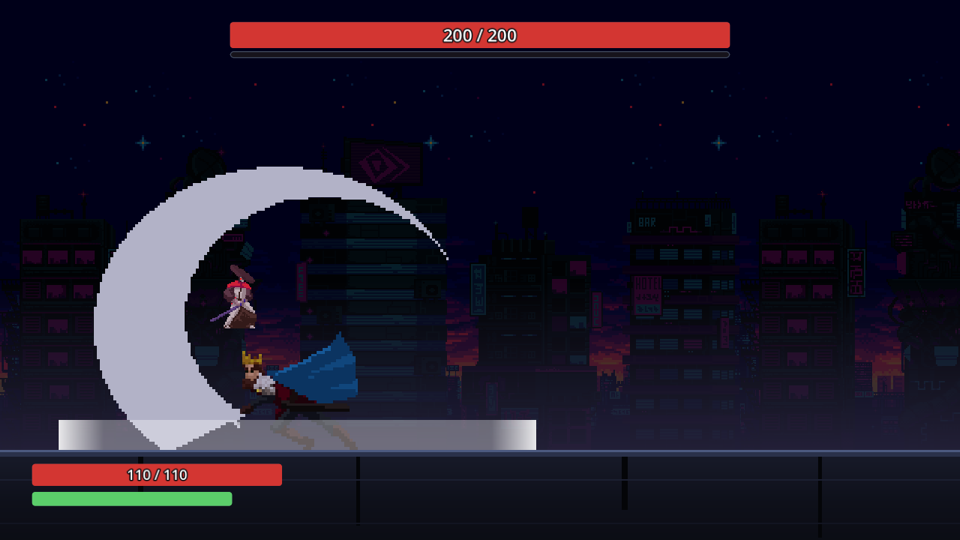
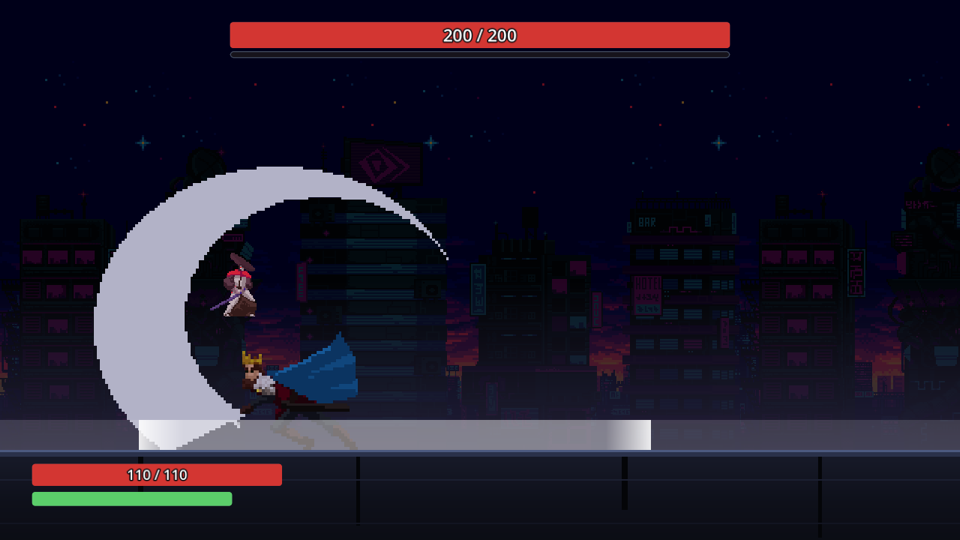
README 와 설계에 밑깔개와 고르게 달리는 앞머리를 적고 착지 사진을 새로 찍는다 (#83)
README: 착지하는 순간 맞는 자리 전체가 옅게 하얘지고 그 위로 앞머리 둘이 양옆 끝까지 달린다 · 6b 캡션은 반쯤 달린 장. 설계: §1 ⑦ 에 아레나로 자른 끝과 밑깔개, §6 착지 충격파 줄에 셋을 겹친 그림 · 아레나로 자름 · 고르게 · landing_wave_underlay_alpha 0.15 와 처음 것이 번쩍임으로 읽힌 사례, §9 #83 에 넷째 틱의 장과 판정 보기의 확인. battle-6b-landing-wave 는 착지 창의 넷째 틱이다 — 밑깔개가 화면 전체에 깔리고 앞머리가 반쯤 갔다. 다른 사진은 흔들림 · 벽시계 차이뿐이라 그대로 둔다.

Changed region(s): [[0.5312, 0.7704, 1.0, 0.8593], [0.0, 0.7704, 0.1875, 0.8593], [0.2188, 0.4741, 0.2812, 0.6222]]

diff --git a/README.md b/README.md
@@ -79,14 +79,15 @@
 언제 오는지도 그 자세가 말한다. 보스의 공격에는 동그라미를 그리지 않는다. 1단계에는 가드로 못 막는 판정이 없다 —
 옛 변종의 표지와 빨간 마무리(危)는 변종과 같이 걷었다.
 
-**점프 공격의 착지는 흰 충격파다.** 착지의 판정은 칼 궤적이 아니라 바닥의 띠라서, 그 띠를 그린다 — 착지한 발밑에서
-흰 띠가 바닥을 따라 양옆으로 퍼진다. 띠의 높이는 규칙이 치는 판정의 높이 그대로라, 보이는 띠 위로 뛴 발은 안 맞는다.
+**점프 공격의 착지는 흰 충격파다.** 착지의 판정은 칼 궤적이 아니라 바닥의 띠라서, 그 띠를 그린다 — 착지하는 순간 맞는
+자리 전체(바닥의 낮은 곳)가 옅게 하얘지고, 그 위로 밝은 앞머리 둘이 발밑에서 양옆 끝까지 달린다. 띠의 높이는 규칙이 치는 판정의
+높이 그대로라, 보이는 띠 위로 뛴 발은 안 맞는다.
 
 | <img src="docs/shots/battle-6-windup.png" width="420"> | <img src="docs/shots/battle-6a-leap.png" width="420"> |
 |---|---|
 | 보스의 선딜 — 그 패턴의 예고 자세에 멈춰 선다 | 점프 공격 — 당신 쪽으로 뛰어 착지에 바닥 전체를 친다 |
 | <img src="docs/shots/battle-6b-landing-wave.png" width="420"> | <img src="docs/shots/battle-11-stage-2.png" width="420"> |
-| 착지 — 발밑에서 흰 충격파가 바닥을 따라 양옆으로 퍼진다. 띠의 높이가 곧 맞는 높이라, 뛰어오른 파이터는 그 위에 떠 있다 | 2단계의 결과 화면 — 1단계를 이기면 2단계가 선다 |
+| 착지 — 맞는 자리 전체가 옅게 깔리고, 밝은 앞머리 둘이 발밑에서 양옆으로 반쯤 달려 나갔다. 띠의 높이가 곧 맞는 높이라, 뛰어오른 파이터는 그 위에 떠 있다 | 2단계의 결과 화면 — 1단계를 이기면 2단계가 선다 |
 | <img src="docs/shots/battle-10d-parry.png" width="420"> | <img src="docs/shots/battle-10e-boss-exhausted.png" width="420"> |
 | 받아친 순간 | 받아쳐 무너진 보스 — 1.5초 동안 푸르게 서고, 체력바 밑 게이지 자리가 남은 탈진을 파랗게 그린다 |
 | <img src="docs/shots/battle-12-poise.png" width="420"> | <img src="docs/shots/battle-12b-poise-break.png" width="420"> |
